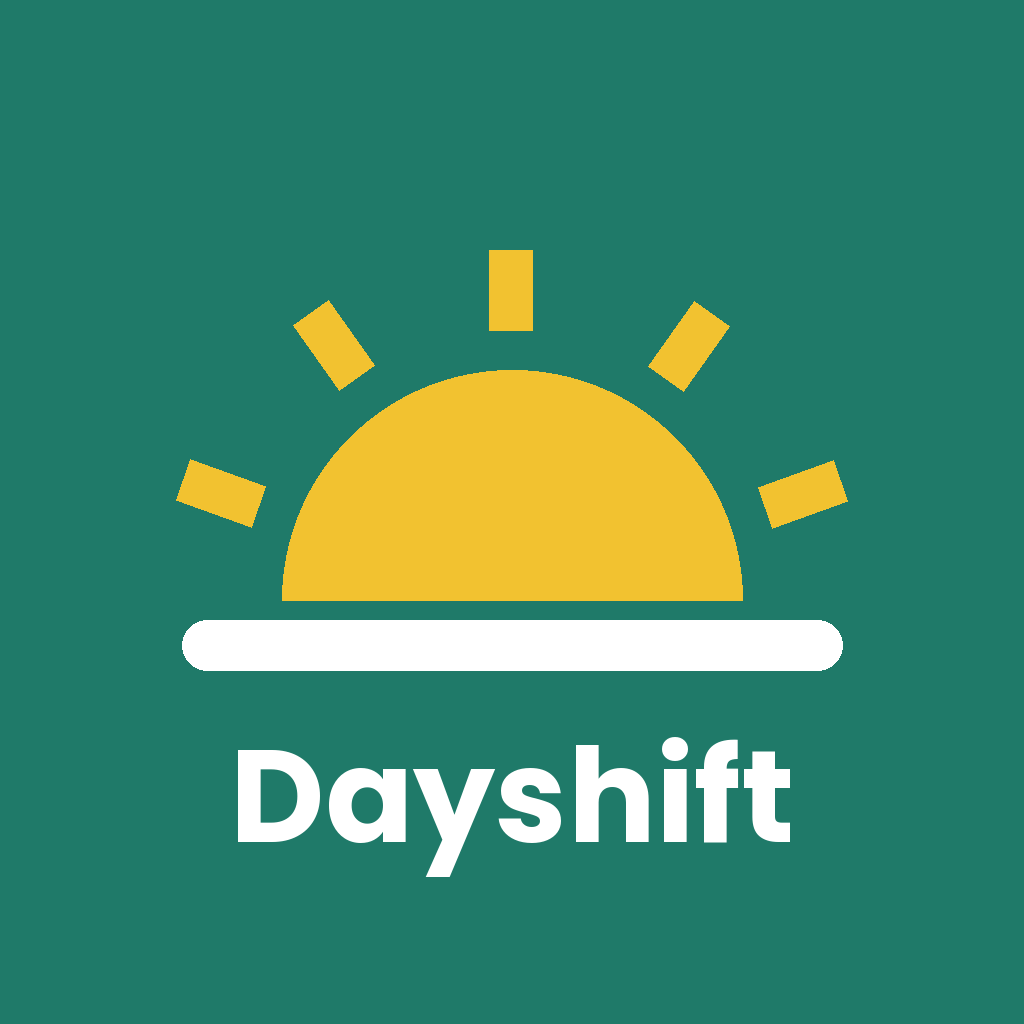
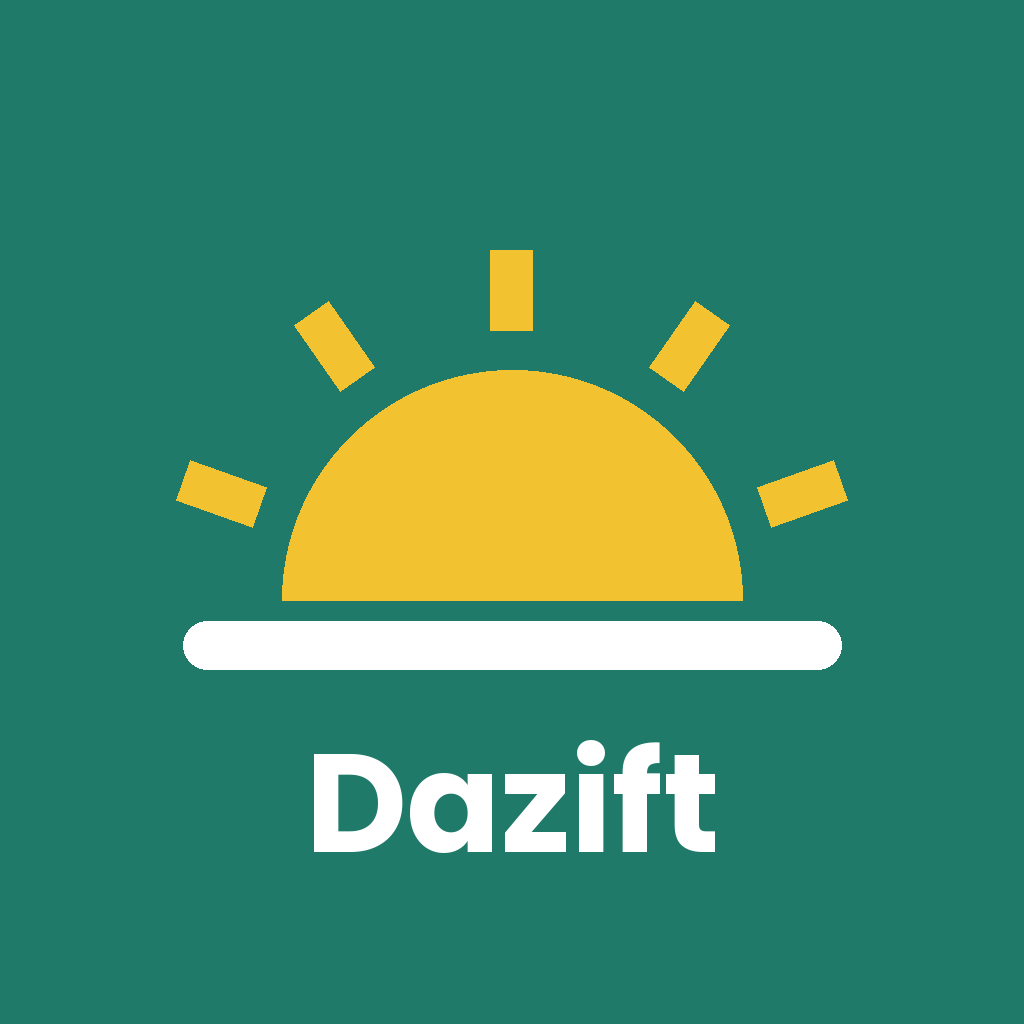
Add files via upload

Changed region(s): [[0.2188, 0.7188, 0.7812, 0.875]]

diff --git a/index.html b/index.html
@@ -3,7 +3,7 @@
 <head>
 <meta charset="utf-8">
 <meta name="viewport" content="width=device-width, initial-scale=1, viewport-fit=cover">
-<title>Dayshift</title>
+<title>Dazift</title>
 <meta name="author" content="LIT America">
 <link rel="preconnect" href="https://fonts.googleapis.com">
 <link rel="preconnect" href="https://fonts.gstatic.com" crossorigin>
@@ -221,7 +221,7 @@ dialog .acts{grid-column:1/-1;display:flex;justify-content:flex-end;gap:8px;marg
 
 <div id="gate" class="gate-wrap hidden">
   <div class="gate-panel">
-    <h1>Dayshift</h1>
+    <h1>Dazift</h1>
     <p>Sign in to manage your business, or create an account.</p>
     <div class="gate-tabs">
       <button id="gateLoginTab" aria-selected="true">Sign In</button>
@@ -284,7 +284,7 @@ dialog .acts{grid-column:1/-1;display:flex;justify-content:flex-end;gap:8px;marg
 <div class="wrap" id="mainApp" hidden>
   <header class="top">
     <div class="brand">
-      <h1 id="bizNameHeader">Dayshift<span class="sparkle" aria-hidden="true"></span></h1>
+      <h1 id="bizNameHeader">Dazift<span class="sparkle" aria-hidden="true"></span></h1>
       <p>Crew board, team locations and the books, all in one place.</p>
     </div>
     <div class="whoami" id="whoami"></div>
@@ -301,7 +301,7 @@ dialog .acts{grid-column:1/-1;display:flex;justify-content:flex-end;gap:8px;marg
     <button role="tab" data-tab="settings" aria-selected="false">Settings</button>
   </nav>
   <main id="view"></main>
-  <footer class="lit-credit app-foot">Dayshift &middot; A product of <a href="https://www.litamerica.net" target="_blank" rel="noopener"><b>LIT America</b></a></footer>
+  <footer class="lit-credit app-foot">Dazift &middot; A product of <a href="https://www.litamerica.net" target="_blank" rel="noopener"><b>LIT America</b></a></footer>
 </div>
 
 <dialog id="jobDlg"><form method="dialog" id="jobForm"></form></dialog>
@@ -596,7 +596,7 @@ function settingsAccount(){
     setRow("Signed in as",(m?m.name+" \u00b7 ":"")+(S.myEmail||""),el("button",{class:"btn small",onclick:signOutApp},"Sign out")),
     S.business?setRow("Business",S.business.name||"",null):null,
     S.isOwner?setRow("Import old data","Bring in jobs saved on this device before you had an account.",el("button",{class:"btn small ghost",onclick:claimLegacyData},"Import")):null));
-  frag.append(el("p",{class:"kv",style:"margin-top:16px"},"Dayshift \u00b7 A product of ",
+  frag.append(el("p",{class:"kv",style:"margin-top:16px"},"Dazift \u00b7 A product of ",
     el("a",{href:"https://www.litamerica.net",target:"_blank",rel:"noopener"},el("b",{},"LIT America"))));
   return frag;
 }
@@ -1052,7 +1052,7 @@ async function syncRunnerContext(onDuty){
     if (!BackgroundRunner) return;
     const m = me();
     await BackgroundRunner.dispatchEvent({
-      label: "com.dayshift.app.locationcheckin",
+      label: "com.dazift.app.locationcheckin",
       event: "setContext",
       details: { businessId: S.businessId, employeeId: m ? m.id : null, onDuty: !!onDuty }
     });
